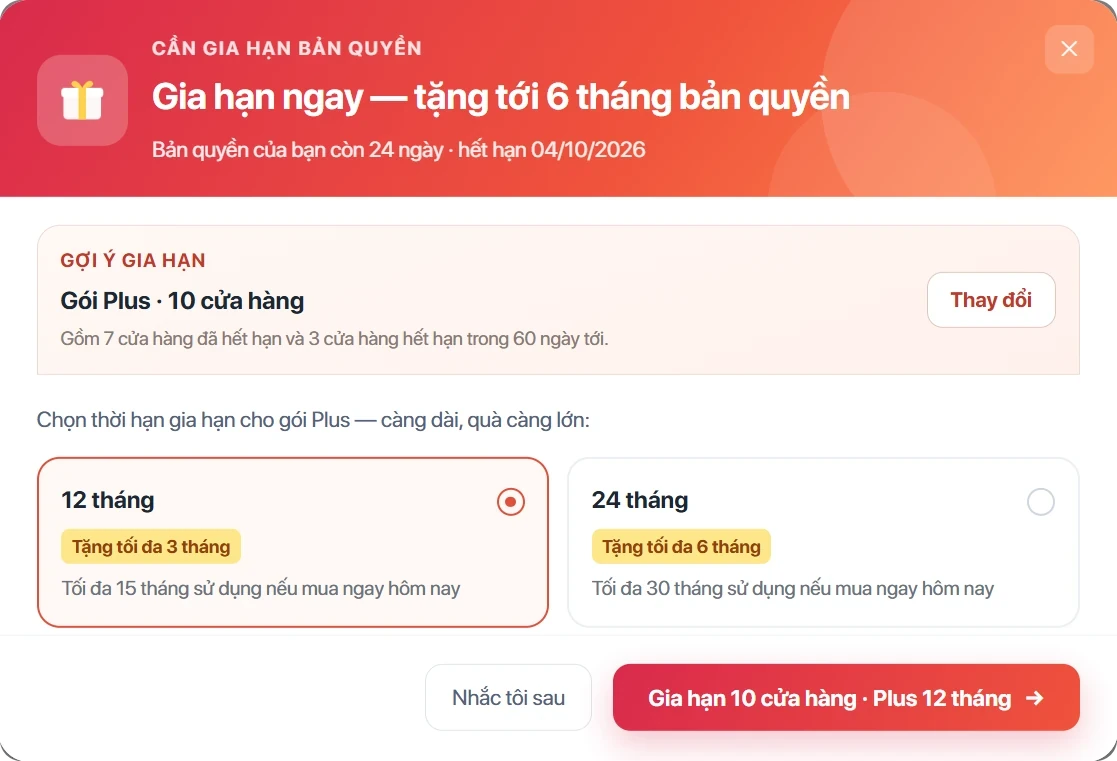
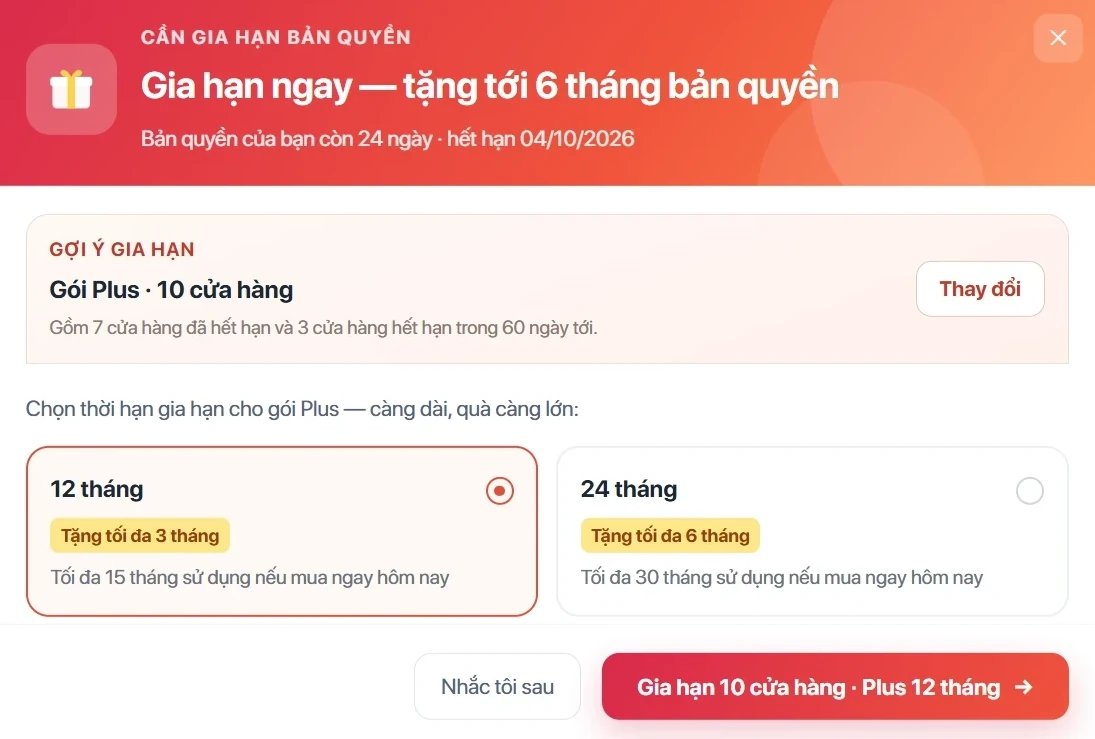
V3: sua noi dung slide 9-24, dau X/tich cho cap slide bo loc, cat goc anh gia han
- Slide 9, 10, 11, 13, 14, 21, 22: sua chu theo Trum
- Slide 17/18/22/23/24: doi tieu de; slide 24 them muc 4, xep 2x2
- webshot them mark:'x'|'check' dong dau tron goc khung trinh duyet (slide 17, 18)
- gia-han.webp: cat moi canh 11px bo vet xam 4 goc, slide 10 imgw 740 -> 640

diff --git a/js/slides-data.js b/js/slides-data.js
@@ -1171,17 +1171,17 @@ v3: {
       { t:'Lên gói {{Pro}} có thêm phí triển khai',
         s:'Áp cho mô hình kho tổng và kho cửa hàng' },
       { t:'Hết hạn mà không gia hạn',
-        s:'Chỉ dùng được các tính năng như bản {{Standard}}, dữ liệu vẫn giữ nguyên.' }
+        s:'Với gói {{Plus}} và {{Pro}} đang sử dụng, khi hết hạn sẽ khóa tính năng, chỉ xem được dữ liệu và báo cáo.' }
     ] },
 
   /* 8 ─ Mua và gia hạn ngay trên hệ thống -------------------------------- */
-  { n:10, type:'webshot', frame:1, imgw:740, shadow:1,
+  { n:10, type:'webshot', frame:1, imgw:640, shadow:1,
     crumb:['GÓI BẢN QUYỀN {{V3}}','Chính sách bán hàng','Mua và gia hạn'],
     title:'MUA VÀ GIA HẠN NGAY TRÊN HỆ THỐNG',
     img:'gia-han.webp',
     items:[
       { t:'Mua mới ngay trên hệ thống', s:'Gói Plus mua như thông thường, gói Pro vẫn cần dịch vụ triển khai' },
-      { t:'Thanh toán xong là bản quyền chạy', s:'Hệ thống tự tạo phiếu triển khai cho iAcc' },
+      { t:'Thời hạn bản quyền được kích hoạt sau khi thanh toán', s:'Hệ thống tự tạo PYC cho IACC' },
       { t:'Mua mới và gia hạn nhiều điểm một lần', s:'Ảnh bên là gia hạn mười cửa hàng trong một lượt' },
       { t:'Ưu đãi áp như chính sách đang chạy', s:'Chọn thời hạn nào thì ưu đãi hiện ngay theo thời hạn đó' }
     ],
@@ -1193,7 +1193,7 @@ v3: {
     title:'THAY ĐỔI KHI BÁN HÀNG',
     items:[
       { n:'01', c:'#12988c', t:'**Chính sách bán hàng giữ nguyên.** Không thay đổi gì so với chính sách hiện hành đang áp dụng cho sale, hoa hồng tương ứng gói mới.' },
-      { n:'02', c:'#e0673d', t:'**Chuyển đổi gói theo logic gia hạn** và ~~không tính KPI~~. Trước đây là 2 sản phẩm nên tính mua mới và có KPI.' }
+      { n:'02', c:'#e0673d', t:'**Chuyển đổi gói từ Plus lên Pro hoặc ngược lại**, sẽ theo logic như gia hạn và ~~không tính KPI~~. Trước đây là hai sản phẩm riêng trên Hermes nên tính mua mới và có KPI.' }
     ] },
 
   /* 8 ─ Menu · bảng nhóm nghiệp vụ --------------------------------------- */
@@ -1231,7 +1231,7 @@ v3: {
       { t:'Cài đặt ➜ Thiết lập quy về một nơi', s:'Công nợ đầu kỳ, Quy tắc giá vốn, Định mức tồn kho, Nhân viên (trước là Tài khoản), Kế hoạch tự động' },
       { t:'Thêm menu Kết nối', s:'Mở đầu với kết nối Misa Amis để đồng bộ dữ liệu sang phần mềm kế toán' }
     ],
-    note:'Menu gom thành **chín nhóm nghiệp vụ**. Tìm nhanh hơn, và ~~nhân viên mới học nhanh hơn~~ vì chức năng nằm đúng chỗ người ta nghĩ tới.' },
+    note:'Menu thay đổi thành **09 nhóm nghiệp vụ**. Tìm nhanh hơn, và ~~người dùng mới sẽ học nhanh hơn~~ vì các màn hình được sắp xếp theo đúng nghiệp vụ.' },
 
   /* 10 ─ Quy trình hoá nghiệp vụ ----------------------------------------- */
   { n:14, type:'webshot',
@@ -1239,7 +1239,7 @@ v3: {
     title:'MỖI NGHIỆP VỤ CÓ THÊM PHẦN QUY TRÌNH',
     img:'quy-trinh-san-xuat.webp', frame:1,
     items:[
-      { t:'Nhóm nghiệp vụ nào cũng đã có quy trình', s:'Mua hàng, bán hàng, điều chuyển, sản xuất, kiểm kê, công nợ' },
+      { t:'Trong tất cả nghiệp vụ đều có sẵn quy trình và ví dụ', s:'Mua hàng, bán hàng, điều chuyển, sản xuất, kiểm kê, công nợ' },
       { t:'Sơ đồ từng bước kèm giải thích', s:'Bước nào đi trước, khi nào dùng phiếu nào, hàng lỗi xử ra sao' },
       { t:'Tắt bước không dùng', s:'Sơ đồ và menu đổi theo, bật lại bất cứ lúc nào' }
     ],
@@ -1270,9 +1270,9 @@ v3: {
     note:'Không phải nhớ chức năng nằm ở nhóm nào trên menu, ~~gõ tên là ra~~.' },
 
   /* 13 ─ Bộ lọc · bản cũ ------------------------------------------------- */
-  { n:17, type:'webshot', frame:1,
+  { n:17, type:'webshot', frame:1, mark:'x',
     crumb:['CÁC THAY ĐỔI LỚN {{V3}}','Bộ lọc','Trước — bản cũ'],
-    title:'MỌI ĐIỀU KIỆN BÀY HẾT RA ĐẦU TRANG',
+    title:'GIAO DIỆN BỘ LỌC CŨ',
     img:'bo-loc-cu-2.webp',
     items:[
       { t:'Chiếm ba hàng đầu trang', s:'Phải cuộn qua hết mới nhìn thấy dữ liệu' },
@@ -1280,9 +1280,9 @@ v3: {
     ] },
 
   /* 12 ─ Bộ lọc · V3 ----------------------------------------------------- */
-  { n:18, type:'webshot', frame:1,
+  { n:18, type:'webshot', frame:1, mark:'check',
     crumb:['CÁC THAY ĐỔI LỚN {{V3}}','Bộ lọc','Sau — bản mới'],
-    title:'GỌN VÀ NHANH HƠN',
+    title:'GIAO DIỆN BỘ LỌC MỚI',
     img:'bo-loc-moi.webp',
     items:[
       { t:'Điều kiện thường dùng ra ngoài', s:'Nằm ngay trên thanh công cụ' },
@@ -1325,22 +1325,22 @@ v3: {
       { t:'Từ bản này làm thẳng trên App', s:'Xem, thêm, sửa, xoá ngay trên điện thoại' },
       { t:'Đủ danh mục thường dùng', s:'Hàng hoá, nhóm hàng, đơn vị tính, quy đổi, công thức sơ chế và chế biến, kho hàng, khách hàng, nhà cung cấp' }
     ],
-    note:'Vào ở mục **Khác ➜ Danh mục**. Mỗi dòng hiện luôn tổng số đã khai, ~~không cần mở ra mới biết~~.' },
+    note:'Vào App ở mục **Khác ➜ Danh mục** để thao tác. Tuy nhiên, có một vài màn hình nghiệp vụ đặc thù ~~vẫn cần thao tác ở Web~~ (như biến thiên).' },
 
   /* 15 ─ Báo cáo mới ----------------------------------------------------- */
   { n:22, type:'webgrid', dir:'col', cols:2,
     crumb:['CÁC THAY ĐỔI LỚN {{V3}}','Báo cáo','Giao diện mới trên Web'],
-    title:'DANH SÁCH BÁO CÁO TỔ CHỨC LẠI',
+    title:'GIAO DIỆN DANH SÁCH BÁO CÁO',
     img:'bao-cao.webp',
     items:[
       'Tám nhóm **A–H** nằm trên một hàng tab: quản trị kho, đặt hàng, sản xuất, giá thành, công nợ, phân tích, đối soát, kiểm soát',
-      'Báo cáo trải ngang theo mã **A01, A02…**, mỗi cái kèm một dòng nói rõ dùng để làm gì'
+      'Báo cáo trải ngang theo mã **A01, A02…** Bổ sung thêm dòng mô tả ngắn gọn bên dưới mỗi báo cáo'
     ] },
 
   /* 16 ─ Chuyển đổi có thời gian thích nghi ------------------------------ */
   { n:23, type:'twoshot',
     crumb:['CÁC THAY ĐỔI LỚN {{V3}}','Chuyển đổi','Thời gian thích nghi'],
-    title:'TỚI 10/10/2026 VẪN QUAY LẠI BẢN CŨ ĐƯỢC',
+    title:'NGÀY 10/10/2026 KHÓA GIAO DIỆN V2',
     sub:'Dữ liệu dùng chung nên chuyển qua lại không mất gì. Sau ngày đó giao diện chuyển hẳn, ~~không quay lại được nữa~~.',
     imgs:['quay-lai-web.webp','quay-lai-app.webp'], mock:['brw',''],
     items:[
@@ -1349,13 +1349,14 @@ v3: {
     ] },
 
   /* 17 ─ Chốt lại -------------------------------------------------------- */
-  { n:24, type:'pillars',
+  { n:24, type:'pillars', cols:2, fit:1,
     kicker:'CHỐT LẠI',
-    title:'V3 CÓ LỢI GÌ CHO NGƯỜI DÙNG',
+    title:'V3 — GIÁ TRỊ MANG LẠI CHO NGƯỜI DÙNG',
     items:[
       { n:'01', c:'#12988c', t:'**Thao tác và tìm kiếm thuận tiện hơn** với cấu trúc tổ chức phân hệ mới theo nghiệp vụ.' },
       { n:'02', c:'#1b6fe0', t:'**Quy trình rõ ràng, ví dụ dễ hiểu**, tối ưu hiệu năng để mọi việc nhanh chóng hơn.' },
-      { n:'03', c:'#6d3fd4', t:'**Ứng dụng AI.** Trợ lý iOne thử nghiệm một vài tính năng và sẽ mở rộng trong thời gian tới.' }
+      { n:'03', c:'#6d3fd4', t:'**Ứng dụng AI.** Trợ lý iOne thử nghiệm một vài tính năng và sẽ mở rộng trong thời gian tới.' },
+      { n:'04', c:'#e0673d', t:'**Linh hoạt chuyển đổi gói phiên bản** tùy theo nhu cầu người dùng, theo từng kho. Dễ dàng mở rộng tệp người dùng hơn.' }
     ] },
 
   /* 18 ─ Hỏi đáp --------------------------------------------------------- */

diff --git a/css/style.css b/css/style.css
@@ -1191,6 +1191,20 @@ body[data-deck="pro"] .qa .ln{background:#fff}
    đệm thì lại ăn mất chỗ của ảnh. */
 .vid .fr.dsh{overflow:visible}
 .vid .fr.dsh .brw{box-shadow:0 24px 48px rgba(9,44,78,.26),0 6px 14px rgba(9,44,78,.13)}
+/* mark:'x' | 'check' — dấu tròn đóng lên góc phải trên của khung trình duyệt, cặp
+   slide bộ lọc cũ / mới. Dấu thò ra ngoài khung nên phải mở overflow cả .fr lẫn
+   .brw; thanh trên và ảnh tự bo góc thay cho .brw. */
+.vid .fr.vmark{overflow:visible}
+.vid .fr.vmark .brw{position:relative;overflow:visible}
+.vid .fr.vmark .brw .bar3{border-radius:13px 13px 0 0}
+.vid .fr.vmark .brw img{border-radius:0 0 13px 13px}
+.vmk{position:absolute;right:-22px;top:-22px;z-index:4;width:60px;height:60px;border-radius:50%;
+  display:grid;place-items:center;border:4px solid #fff;
+  box-shadow:0 10px 24px rgba(9,44,78,.22),0 2px 6px rgba(9,44,78,.12)}
+.vmk svg{width:28px;height:28px;fill:none;stroke:#fff;stroke-width:3.4;stroke-linecap:round;
+  stroke-linejoin:round}
+.vmk.x{background:linear-gradient(160deg,#f0625a,#d63a31)}
+.vmk.check{background:linear-gradient(160deg,#22b573,#12906a)}
 
 /* ── Nội dung bổ sung (bật/tắt bằng phím X) ────────────────────────────── */
 .xflag{position:relative}

diff --git a/js/app.js b/js/app.js
@@ -517,13 +517,15 @@ device (s, d) {
 
 /* Ảnh chụp màn Web nằm ngang: ảnh chiếm phần lớn slide, ghi chú dồn sang phải */
 webshot (s, d) {
+  /* mark:'x' | 'check' — dấu tròn đóng lên góc khung, cặp slide bản cũ / bản mới */
+  const mk = s.mark ? `<span class="vmk ${s.mark}">${IC[s.mark]}</span>` : '';
   const shot = s.frame
     ? `<div class="brw"><div class="bar3"><i></i><i></i><i></i></div>
-         <img src="${d.dir}${s.img}" alt="" data-zoom></div>`
+         <img src="${d.dir}${s.img}" alt="" data-zoom>${mk}</div>`
     : `<img src="${d.dir}${s.img}" alt="" data-zoom>`;
   return head(kick(s), s.title, '', 'up') + `<div class="s-body"><div class="vid${
     s.imgw ? ' fixw' : ''}"${s.imgw ? ` style="--iw:${s.imgw}px"` : ''}>
-    <div class="fr shot${s.frame ? ' brwrap' : ''}${s.shadow ? ' dsh' : ''}">${shot}</div>
+    <div class="fr shot${s.frame ? ' brwrap' : ''}${s.shadow ? ' dsh' : ''}${s.mark ? ' vmark' : ''}">${shot}</div>
     <div class="side" data-fit>
       ${s.items ? `<div class="lst">${s.items.map((it, i) => `
         <div class="it"><b>${i + 1}</b><div class="tx"><span>${md(it.t)}</span>

diff --git a/README.md b/README.md
@@ -131,7 +131,7 @@ khối CSS cùng tên trong `css/style.css`.
 | `modgrid` | Lưới thẻ phân hệ, span trên 12 cột, mỗi thẻ một màu | `groups[{h,ic,span,c,items}]` |
 | `device` | Ảnh máy + danh sách mục + ghi chú | `imgs` `items` `note` `side` `colw` `grid` |
 | `video` | Video chạy như ảnh động, cột phải nhận danh sách như `webshot` | `video` `poster` `items[{t,s}]` `note` |
-| `webshot` | Ảnh chụp màn Web nằm ngang + ghi chú phải | `img` `items` `note` `frame` |
+| `webshot` | Ảnh chụp màn Web nằm ngang + ghi chú phải | `img` `items` `note` `frame` `mark` |
 | `packs` | Ba thẻ gói kèm logo sản phẩm + hai thẻ lưu ý bên dưới | `packs[{logo,from,to,c}]` `notes[{h,ic,items}]` |
 | `intro` | Mở đầu một phần: chữ trái, ảnh lệch phải trên nền màu | `kicker` `title` `lead` `chips` `note` `img` |
 | `webgrid` | Khung trình duyệt + điểm nhấn (`dir:'row'` hoặc `'col'`) | `img` `items` `dir` `cols` |
@@ -671,11 +671,16 @@ Tranh minh hoạ nửa phải giữ nguyên. Từ 13/09/2026 bộ Plus cũng dù
 thành hai mục flex riêng, dấu cách giữa chúng bị nuốt mất — `Inventory` dính sát
 thẻ `Pro`.
 
-### Ảnh hộp thoại nổi thì cắt bo góc trong suốt
+### Ảnh hộp thoại nổi thì cắt sát bốn cạnh
 
-Ảnh chụp một hộp thoại nổi luôn dính bốn góc nền mờ phía sau, chuyển sang RGB
-là bốn góc thành xám đen. `gia-han.webp` đã cắt bo góc bán kính **21px** thành
-trong suốt, lưu WebP giữ kênh alpha.
+Ảnh chụp một hộp thoại nổi luôn dính bốn góc nền mờ phía sau. Lần đầu
+`gia-han.webp` cắt bo góc bán kính 21px thành trong suốt, nhưng viền khử răng
+cưa vẫn còn một vệt xám ở bốn góc — nhìn trên slide vẫn thấy.
+
+13/09/2026 đổi cách: **cắt thẳng mỗi cạnh 11px** (1117×761 → 1095×739), góc
+ảnh thành nền đỏ và trắng của chính hộp thoại, lưu RGB không cần kênh alpha. Đo
+lại: vùng 18px ở mỗi góc không còn điểm xám nào. Slide 10 bộ V3 hạ `imgw` từ
+740 xuống 640 để ảnh vẽ nhỏ lại cho nét.
 
 Cờ `shadow:1` trên slide `webshot` đổ bóng cho **cả khung giả lập**, không phải
 cho ảnh bên trong. `.fr` vốn có `overflow:hidden` nên cắt cụt bóng — luật này mở
